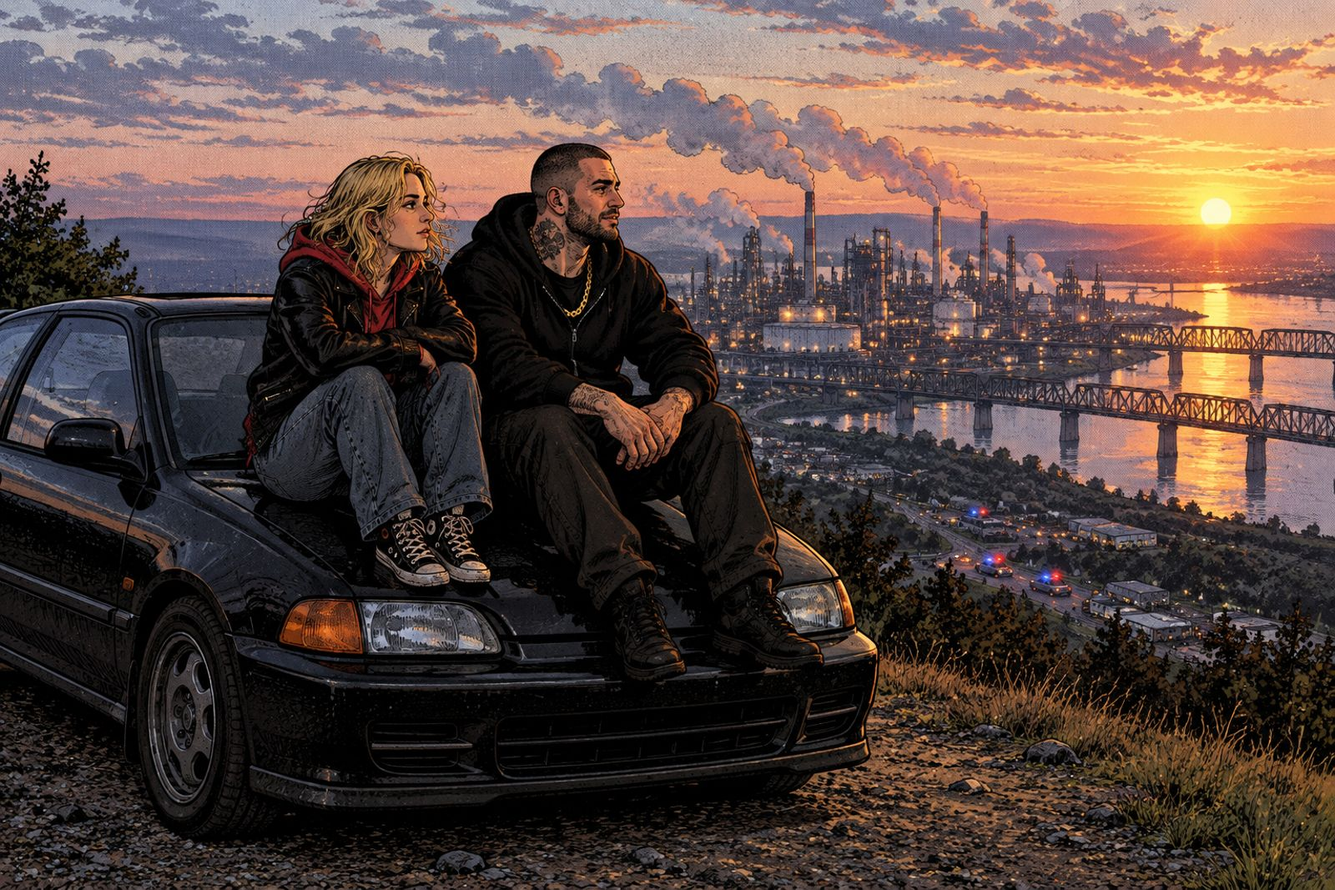
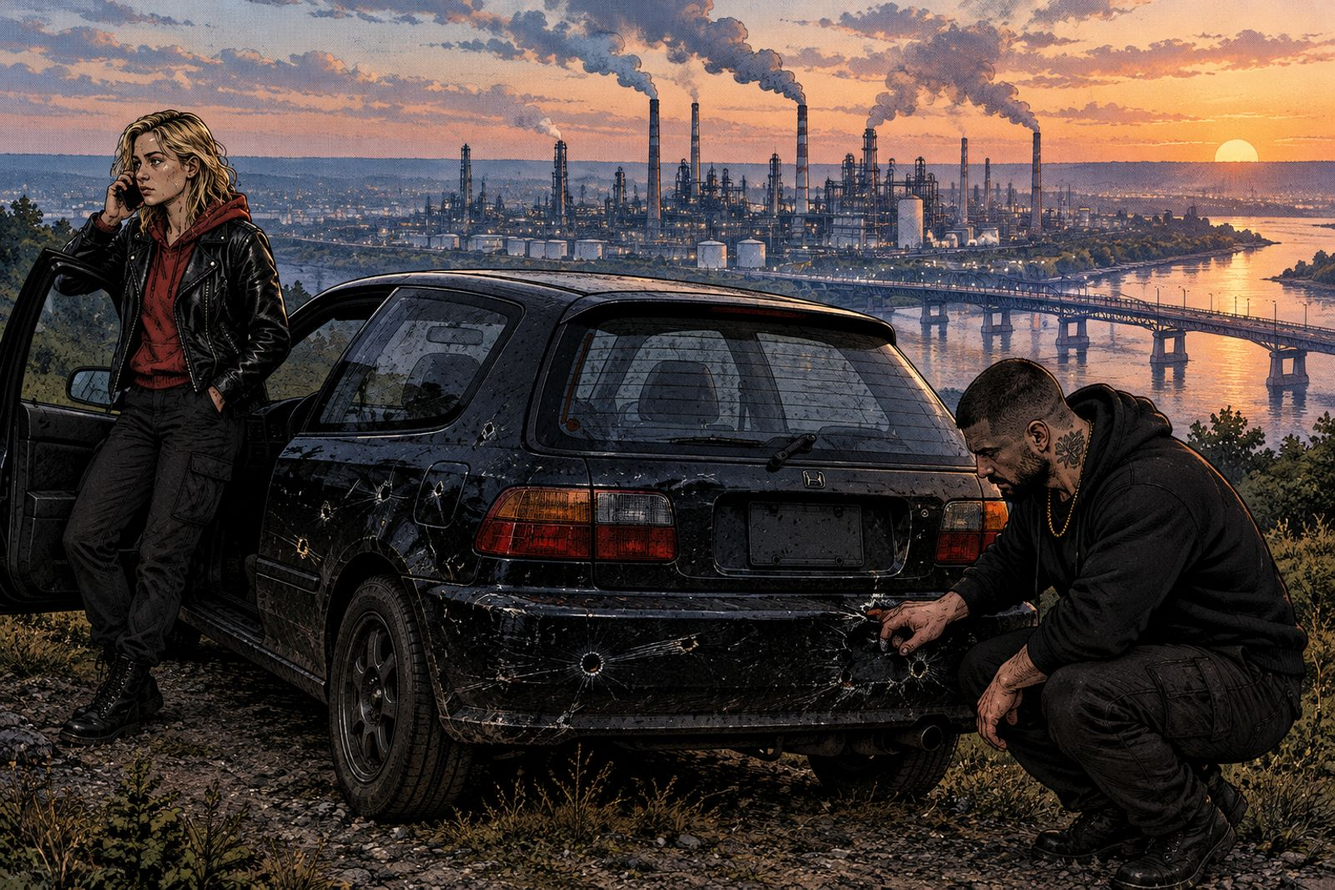
Story tone: less romance, no drug hints, no shooting at police. Chases mix police (bullet-proof, escape them) with many gang cars (shootable, double explosion + shake); 'Fízlové na Klíši' becomes 'Gang na Klíši'; courier delivers car parts; Chemička retrieves a stolen car; neutral pedestrian/police 
Claude-Session: https://claude.ai/code/session_01Tt18V6mhpxc2nVgtq6weTV

diff --git a/public/index.html b/public/index.html
@@ -521,19 +521,19 @@ const CIV_COLS=['#7a2222','#3a4a6a','#bdbdbd','#5a5a5a','#7a6a3a','#2f5f5a','#6a
 const RIVALS=[{n:'Kája',c:'#9dff00'},{n:'Pepa Turbo',c:'#ff2ec8'},{n:'Denis',c:'#ff7a00'},{n:'Žanetka',c:'#00e5ff'}];
 const HEROES={
  lucie:{name:'Lucie „Kočka“',role:'Řidička',desc:'Za volantem od patnácti. Bokem projede i Mariánskej most.',perk:'Lepší ovladatelnost +15 %, nitro se nabíjí o 40 % rychleji.'},
- marek:{name:'Marek „Šrot“',role:'Střelec',desc:'Ex-boxer z Předlic. Když vytáhne kalacha, policajti brzdí.',perk:'Poškození +60 %, rychlejší palba, pomalejší přehřátí.'}
+ marek:{name:'Marek „Šrot“',role:'Střelec',desc:'Ex-boxer z Předlic. Když vytáhne kalacha, gangy brzdí.',perk:'Poškození +60 %, rychlejší palba, pomalejší přehřátí.'}
 };
 function chaseSpec(B,p){const m=p&&p.st?p.st.max:0,a=p&&p.st?p.st.acc*(p.st.drv||1):0;return Object.assign({},B,{max:Math.max(B.max,m*.96),acc:Math.max(B.acc,a*1.08)})}
 const LEVELS=[
  {id:'utek',name:'Útěk po loupeži',sub:'Noc • liják • policie',type:'chase',route:[[4,25],[2,25],[2,22],[4,22],[4,23],[7,23],[7,21],[8,21],[8,19],[3,19],[3,17]],
-  blocks:[[2,.55],[5,.5],[7,.6],[8,.5]],reward:{resp:150,cash:50000},dark:.84,rain:true,from:'Mírové náměstí',to:'Úkryt v Neštěmicích',comic:'utek'},
+  pol:.5,blocks:[[2,.55],[5,.5],[7,.6],[8,.5]],reward:{resp:150,cash:50000},dark:.84,rain:true,from:'Mírové náměstí',to:'Úkryt v Neštěmicích',comic:'utek'},
  {id:'zavod',name:'Závod s místníma',sub:'Předlice → Střekov • 5 aut',type:'race',route:[[1,20],[3,20],[3,22],[1,22],[1,25],[4,25],[4,23],[9,23],[9,25],[7,25],[7,28]],
   reward:{resp:200,cash:25000},dark:.78,rain:false,from:'Předlice',to:'Střekov',comic:'zavod',req:'utek'},
- {id:'kuryr',name:'Kurýr do Předlic',sub:'Na čas • bez policie',type:'chase',cops:0,time:58,route:[[2,24],[2,27],[4,27],[4,29],[1,29]],reward:{resp:80,cash:30000},dark:.8,rain:true,comic:'kuryr'},
+ {id:'kuryr',name:'Kurýr do Předlic',sub:'Náhradní díly na čas',type:'chase',cops:0,time:58,route:[[2,24],[2,27],[4,27],[4,29],[1,29]],reward:{resp:80,cash:30000},dark:.8,rain:true,comic:'kuryr'},
  {id:'pepa',name:'Ožralej Pepa',sub:'Odvez ho domů, než se pobleje',type:'chase',cops:0,time:84,gentle:1,route:[[3,25],[4,25],[9,25],[9,21],[10,21],[10,18]],reward:{resp:80,cash:35000},dark:.82,rain:false,comic:'pepa'},
  {id:'cetky',name:'Zlatý řetězy',sub:'Rozstřílej 8 aut gangu za 110 s',type:'chase',cops:0,gang:8,kills:8,time:110,route:[[1,13],[4,13],[4,16],[1,16],[1,13]],reward:{resp:150,cash:60000},dark:.84,rain:true,comic:'cetky'},
- {id:'fizl',name:'Fízlové na Klíši',sub:'Sejmi 7 policejních aut',type:'chase',kills:7,time:140,route:[[1,18],[1,12],[3,12],[3,10],[0,10]],blocks:[[1,.5]],reward:{resp:150,cash:55000},dark:.84,rain:true,comic:'fizl'},
- {id:'chem',name:'Útěk z Chemičky',sub:'Přes most v Povrlech • policie',type:'chase',route:[[2,16],[2,14],[9,14],[9,11],[7,11]],blocks:[[1,.5],[2,.6]],reward:{resp:180,cash:70000},dark:.86,rain:true,comic:'chem'},
+ {id:'fizl',name:'Gang na Klíši',sub:'Sejmi 7 aut gangu',type:'chase',pol:0,kills:7,time:140,route:[[1,18],[1,12],[3,12],[3,10],[0,10]],reward:{resp:150,cash:55000},dark:.84,rain:true,comic:'fizl'},
+ {id:'chem',name:'Útěk z Chemičky',sub:'Přes most v Povrlech • gang v zádech',pol:.25,type:'chase',route:[[2,16],[2,14],[9,14],[9,11],[7,11]],blocks:[[1,.5],[2,.6]],reward:{resp:180,cash:70000},dark:.86,rain:true,comic:'chem'},
  {id:'mosty',name:'Závod přes mosty',sub:'Tři mosty • 5 aut',type:'race',route:[[4,14],[8,14],[8,19],[4,19],[4,23],[9,23],[9,26]],reward:{resp:200,cash:40000},dark:.78,rain:false,comic:'mosty'},
  {id:'l3',name:'Děčín',sub:'Zatím zavřeno',soon:true,at:[6,4]},
 ];
@@ -596,43 +596,43 @@ kaja:`<svg viewBox="0 0 200 250" xmlns="http://www.w3.org/2000/svg"><g stroke="#
 const COMICS={
  end_utek:{title:'Kapitola 2: Konec',end:1,panels:[{art:'end_utek',cap:'Úkryt v Neštěmicích. Zlato na kapotě, sirény se ztrácej v dešti. Dneska spíme jako králové.'}]},
  end_zavod:{title:'Kapitola 3: Konec',end:1,panels:[{art:'end_zavod',cap:'Most nad Labem, Střekov v zádech. Místní kluci koukaj s otevřenou pusou — nová jednička v Ústí.'}]},
- end_kuryr:{title:'Kurýr: Konec',end:1,panels:[{art:'end_kuryr',cap:'Balík předanej, obálka tlustá. Co v něm bylo? Radši se neptej.'}]},
+ end_kuryr:{title:'Kurýr: Konec',end:1,panels:[{art:'end_kuryr',cap:'Díly předaný, dílna jede dál. Mistr podává obálku: „Dobrá práce, příště zas.“'}]},
  end_pepa:{title:'Ožralej Pepa: Konec',end:1,panels:[{art:'end_pepa',cap:'Pepa doma, celej a spokojenej. Manželka s válečkem už čeká. Tohle už není tvůj problém.'}]},
- end_cetky:{title:'Zlatý řetězy: Konec',end:1,panels:[{art:'end_cetky',cap:'Gang je na šrot a jejich zlato visí na tvým krku. Herna nonstop dneska slaví jinou partu.'}]},
- end_fizl:{title:'Fízlové na Klíši: Konec',end:1,panels:[{art:'end_fizl',cap:'Hromada majáků na kopci a jen koncovky mizející dolů. Velitel si dneska čepici nezaslouží.'}]},
- end_chem:{title:'Chemička: Konec',end:1,panels:[{art:'end_chem',cap:'Svítá nad Chemičkou. Policajti hledaj dole v údolí. My jsme nahoře — a volní.'}]},
+ end_cetky:{title:'Zlatý řetězy: Konec',end:1,panels:[{art:'end_cetky',cap:'Gang je na šrot a jejich řetězy jsou v kufru. Ulice u herny je dneska klidná.'}]},
+ end_fizl:{title:'Gang na Klíši: Konec',end:1,panels:[{art:'end_fizl',cap:'Sedm kouřících vraků na kopci. Kájovi kluci dneska Klíši nedostanou.'}]},
+ end_chem:{title:'Chemička: Konec',end:1,panels:[{art:'end_chem',cap:'Svítá nad Chemičkou. Gang zůstal někde v údolí. Auto je zpátky a parťáci taky.'}]},
  end_mosty:{title:'Tři mosty: Konec',end:1,panels:[{art:'end_mosty',cap:'Prachy v ruce, uznání v očích soupeře. Tři mosty, jedna královna silnice.'}]},
  intro:{title:'Kapitola 1: Novej ve městě',panels:[
   {scene:'city',art:'keyart',cap:'Ústí nad Labem. Město andělů. Chemička nikdy nespí, Labe teče furt stejně líně… a ty jsi tu novej.'},
-  {scene:'river',art:'panel_river',who:['lucie','marek'],bubs:[{w:'lucie',t:'Tak tohle je ono, Marku. Novej život.',x:4,y:8},{w:'marek',t:'Novej život, nový cíle. Ale tady jsme nikdo.',x:36,y:34}]},
+  {scene:'river',art:'panel_river',who:['lucie','marek'],bubs:[{w:'lucie',t:'Tak tohle je Ústí, Marku. Začínáme od nuly.',x:4,y:8},{w:'marek',t:'Jo. Tady nás nikdo nezná. Zatím.',x:36,y:34}]},
   {scene:'fight',art:'street',who:[null,'kaja'],cap:'Fabriky, kopce, herny nonstop a ulice, kde se respekt nedědí.',bubs:[{w:'kaja',t:'Co čumíš, ty vole? Tohle je náš rajón, do píče!',x:8,y:40,shout:1}]},
   {scene:'fight',art:'street',cap:'Sídliště. Kluci se zase hádaj o nic.',bubs:[{w:'pepa',t:'Co na mě čumíš, ty šlapko?',x:4,y:30,shout:1},{w:'denis',t:'Vole, chceš do huby, nebo co?!',x:38,y:52},{w:'pepa',t:'Tak pojď, ty opice!',x:10,y:74,shout:1}]},
   {scene:'car',art:'panel_car',who:['lucie','marek'],bubs:[{w:'marek',t:'Potřebujem prachy na káru a jméno.',x:40,y:10},{w:'lucie',t:'Já řídím. Ty střílíš. Jako vždycky.',x:4,y:34}],cap2:'Odpracuj si respekt.'}]},
  utek:{title:'Kapitola 2: Zlatnictví',panels:[
   {scene:'plaza',art:'panel_plaza',cap:'02:47. Zlatnictví u Mírového náměstí. Leje jak z konve.'},
   {scene:'plaza2',art:'heist',who:['lucie','marek'],bubs:[{w:'marek',t:'Máme to! Jeď, jeď, JEĎ!',x:38,y:10,shout:1},{w:'lucie',t:'Drž se, ty debile, budou tu za minutu!',x:4,y:34}]},
-  {scene:'chase',art:'bridge',who:[null,'marek'],cap:'Sirény. Modrý světla. Celá Klíše je vzhůru.',bubs:[{w:'police',t:'Stůjte! Policie!',x:50,y:28,shout:1},{w:'marek',t:'Nasrat! Mám kalacha a dobrou náladu.',x:6,y:46}]},
-  {scene:'chase2',art:'panel_chase2',cap:'Dojeď do úkrytu v Neštěmicích a kšeft je tvůj. Policajty před sebou rozstřílej — tlačítko PAL.'}]},
+  {scene:'chase',art:'bridge',who:[null,'marek'],cap:'Sirény. Modrý světla. Celá Klíše je vzhůru.',bubs:[{w:'police',t:'Stůjte! Policie!',x:50,y:28,shout:1},{w:'marek',t:'Neboj, ujedeme jim. Jen se drž!',x:6,y:46}]},
+  {scene:'chase2',art:'panel_chase2',cap:'Dojeď do úkrytu v Neštěmicích. Policii ujeď — a za náma jede i Kájův gang. Jejich káry sejmi tlačítkem PAL.'}]},
  zavod:{title:'Kapitola 3: Předlice',panels:[
   {scene:'cutoff',art:'panel_cutoff',cap:'Předlice, sobota v noci. Na křižovatce tě někdo nahulí.'},
   {scene:'cutoff2',art:'panel_cutoff2',who:['lucie','kaja'],bubs:[{w:'kaja',t:'Ty vole, kdo tě učil řídit? Šlapko jedna!',x:40,y:10,shout:1},{w:'lucie',t:'Cos to řek, ty pičo?',x:4,y:36}]},
   {scene:'start',art:'racestart',who:['marek','kaja'],bubs:[{w:'kaja',t:'Chceš respekt? Závod. Pět kár, přes Mariánskej most na Střekov. Vítěz bere prachy.',x:36,y:8},{w:'marek',t:'Platí. Lucko, nakopni jim prdele.',x:4,y:40}]},
   {scene:'start2',art:'panel_start2',cap:'Platí jen první místo. Tlačítko NITRO = krátký zrychlení, nabíjí se samo.'}]},
  kuryr:{title:'Kurýr',panels:[
-  {art:'courier',bubs:[{w:'pepa',t:'Balík do Předlic. Za 58 vteřin, jinak tě sežerou.',x:44,y:8},{w:'lucie',t:'Co v tom je?',x:4,y:40}]},
-  {art:'courier',cap2:'Neptej se. JEĎ!'}]},
+  {art:'courier',bubs:[{w:'pepa',t:'Náhradní díly pro dílnu v Předlicích. Za 58 vteřin, jinak mistr zavře.',x:44,y:8},{w:'lucie',t:'Tak to stihneme.',x:4,y:40}]},
+  {art:'courier',cap2:'Mistr nečeká. JEĎ!'}]},
  pepa:{title:'Ožralej Pepa',panels:[
   {art:'drunk',bubs:[{w:'pepa',t:'Holka zlatá… vez mě domů… hik!',x:4,y:8,shout:1},{w:'lucie',t:'Jestli mi to tu pobleješ, vyhodím tě na mostě!',x:50,y:40}]},
   {art:'drunk',cap:'Jeď opatrně. Každej náraz = Pepovi je hůř.',cap2:'Krásný Březno, rychle!'}]},
  cetky:{title:'Zlatý řetězy',panels:[
   {art:'gang',bubs:[{w:'kaja',t:'Tohle je náš rajón, šlapko. Zlatý řetězy, černý káry.',x:40,y:6,shout:1},{w:'marek',t:'Pěkný řetízky. Budou se hodit do šrotu.',x:4,y:44}]},
   {art:'shootout',cap:'Šest černejch SUV. Dvě minuty.',cap2:'PAL!'}]},
- fizl:{title:'Fízlové na Klíši',panels:[
-  {art:'bridge',bubs:[{w:'police',t:'Tady hlídka. Ten černej hatchback zase jezdí.',x:40,y:8},{w:'marek',t:'Pět fízláků. Ani o jednoho víc.',x:4,y:44}]},
-  {art:'shootout',cap2:'Sejmi 5 aut policie!'}]},
+ fizl:{title:'Gang na Klíši',panels:[
+  {art:'gang',bubs:[{w:'kaja',t:'Klíše je teď naše. Kdo tu jezdí, platí.',x:40,y:8,shout:1},{w:'marek',t:'Sedm černejch kár. Ani o jednu víc.',x:4,y:44}]},
+  {art:'shootout',cap2:'Sejmi 7 aut gangu!'}]},
  chem:{title:'Chemička',panels:[
-  {art:'shootout',cap:'Noc u Spolchemie. Někdo zmáčkl alarm.',bubs:[{w:'marek',t:'Mám to v kufru. Teď jen přes most v Povrlech.',x:40,y:50}]},
-  {art:'bridge',cap2:'Ujeď policii!'}]},
+  {art:'shootout',cap:'Noc u Spolchemie. Kájův gang nám ukrad auto a schoval ho v areálu.',bubs:[{w:'marek',t:'Mám ho. Teď jen přes most v Povrlech — a za náma půlka gangu.',x:40,y:50}]},
+  {art:'gang',cap2:'Ujeď gangu!'}]},
  mosty:{title:'Tři mosty',panels:[
   {art:'racestart',bubs:[{w:'kaja',t:'Odveta. Tři mosty, žádný zkratky.',x:40,y:8,shout:1},{w:'lucie',t:'Zase prohraješ, šneku.',x:4,y:40}]},
   {art:'keyart',cap2:'Jen první místo!'}]},
@@ -805,7 +805,7 @@ function spawnCiv(w){for(let tries=0;tries<12;tries++){const ci=Math.round((w.ca
 
 /* ---- peds ---- */
 const DIALOG=[['Čau! Jak se máš?','Ale jo, ujde to.'],['Viděls ten zápas?','Jo, hrůza. Zase prohráli.'],['Půjčíš mi stovku?','Zapomeň, vole.'],['Ty jo, dlouho jsme se neviděli!','No jo, makám jak blázen.'],['Jdeš večer ven?','Jasně, do Pivnice.'],['Slyšels o tý honičce?','Jo, prej to byla černá kára.'],['Kde bydlíš teď?','Na Severní Terase.'],['Máš práci?','Jo, v Chemičce.'],['Co děláš o víkendu?','Spím. Celej víkend.'],['Hele, nemáš oheň?','Jasně, tumáš.']];
-const LINES={pub:['Na zdraví, vole!','Ještě jedno a jdem.','Kdo platí tuhle rundu?','Ty vole, já tě mám rád!','Hospoda je můj druhej domov.','Pivo za 29? To je dar!','Zavolej mi taxíka…','Půjč mi kilo do pátku!','Hele, ty nejsi odsud, co?'],car:['Ty šlapko!','Ty opice!','Kam čumíš, vole?!','Naučíš se řídit?!','Debile!','Do píče, moje auto!','Papíry máš z Lidlu?!','Ty kreténe!'],police:['Zastavte vozidlo!','Policie! Stůjte!','Okamžitě zastav!','Máme tě, kreténe!','Ruce na volant!'],rival:['Čau, šnečku!','Papa, loosere!','Tohle sou Předlice, vole!','Seš pomalej jak tramvaj!','Ty opice!'],drunk:['Já jsem v pohodě, fakt!','Kde je moje bunda?','Ještě jednu a domů… hik.','Miluju tohle město!','Hik…','Máš cigo?','Půjč mi kilo do pátku!','Ty vole, kde je hospoda?','Ještě jedno, pane vrchní!','Já nejsem ožralej!','Pivo je tekutej chleba!'],fight:['Ty šlapko!','Do píče!','Co čumíš?!','Dej mi ty prachy!','Chceš do huby?','Vole, nech toho!','Pojď sem, ty kreténe!'],girl:['Svezeš mě, zlato?','Ahoj fešáku…','Tady je zima jak sviňa.','Máš cígo?'],hit:['Ty opice!','Ty kreténe!','Pomalu, vole!','Debile!','Kurva!','Jezdi pořádně!','Do píče, málem!'],worker:['Ještě dvě hodiny a padla.','Mistr je kretén.','Zejtra zas ranní.','Výplata až v pátek…','Zase noční šichta…','Chemička smrdí jak vždycky.','Kde je ten autobus?'],bump:['Promiň!','Dávej bacha, vole!','Kam čumíš?','Pardon, pane.','Jejda, sorry!','Nešlapej mi na boty!','Ty máš oči na zádech?','Uhni, spěchám!'],
+const LINES={pub:['Na zdraví, vole!','Ještě jedno a jdem.','Kdo platí tuhle rundu?','Ty vole, já tě mám rád!','Hospoda je můj druhej domov.','Pivo za 29? To je dar!','Zavolej mi taxíka…','Půjč mi kilo do pátku!','Hele, ty nejsi odsud, co?'],car:['Ty šlapko!','Ty opice!','Kam čumíš, vole?!','Naučíš se řídit?!','Debile!','Do píče, moje auto!','Papíry máš z Lidlu?!','Ty kreténe!'],police:['Zastavte vozidlo!','Policie! Stůjte!','Okamžitě zastavte!','Vypněte motor!','Ruce na volant!'],gang:['Tohle je náš rajón!','Zastav, ty vole!','Dej sem tu káru!','Máme tě!','Za to zaplatíš!'],rival:['Čau, šnečku!','Papa, loosere!','Tohle sou Předlice, vole!','Seš pomalej jak tramvaj!','Ty opice!'],drunk:['Já jsem v pohodě, fakt!','Kde je moje bunda?','Ještě jednu a domů… hik.','Miluju tohle město!','Hik…','Máš cigo?','Půjč mi kilo do pátku!','Ty vole, kde je hospoda?','Ještě jedno, pane vrchní!','Já nejsem ožralej!','Pivo je tekutej chleba!'],fight:['Ty šlapko!','Do píče!','Co čumíš?!','Dej mi ty prachy!','Chceš do huby?','Vole, nech toho!','Pojď sem, ty kreténe!'],girl:['Nevíš, kdy jede tramvaj?','Hezký auto!','Tady je zima jak sviňa.','Máš cígo?'],hit:['Ty opice!','Ty kreténe!','Pomalu, vole!','Debile!','Kurva!','Jezdi pořádně!','Do píče, málem!'],worker:['Ještě dvě hodiny a padla.','Mistr je kretén.','Zejtra zas ranní.','Výplata až v pátek…','Zase noční šichta…','Chemička smrdí jak vždycky.','Kde je ten autobus?'],bump:['Promiň!','Dávej bacha, vole!','Kam čumíš?','Pardon, pane.','Jejda, sorry!','Nešlapej mi na boty!','Ty máš oči na zádech?','Uhni, spěchám!'],
  group:['A pak mu řekla, že je to jeho dítě!','Kdo jde na jedno?','Viděli jste včera Slavii?','Šéf mě zase sjel…','Tady se nic nezmění, vole.','Prej zdražujou tramvaj.','Já bych odsud vypadnul.','Hele, támhle jede ta černá kára!','Pátek, pátek, pátek!','Kdo má cígo?','Ty vole, to není možný!','Haha, to je dobrý!','Kam dneska večer?','Na Střekově je párty.','Kamarád prodává káru, levně.'],
  shot:['Střílí!!','Lehni!','Pomoc!','Utíkej!','Do píče, kulky!','Policie, pomoc!'],greet:['Čau!','Nazdar, jak se máš?','Ahoj, co děláš?','Taky prší, co?','Viděls ten zápas?','Ty jo, dlouho jsme se neviděli!'],near:['Pěkná kára!','Hezký auto, vole.','Svezeš mě kousek?','Ty máš ale bourák!','Neblokuj chodník!','Co tu stojíš?'],walker:['Kolik je hodin?','Zase jsem nestih autobus.','Prší jak sviňa.','Kde je tu bankomat?','Tohle město mě jednou zabije.','Ještě že je pátek.','Ten nájem je šílenej.','Mám hlad jak vlk.','Máš cigo?','Ty vole, prší.','Máš drobný?','Kam jdeš?','Půjč mi kilo do pátku.','Vrátím ti to, fakt!']};
 const PEDCOL=['#3a6ea5','#a53a3a','#4a8a4a','#8a6a3a','#555','#7a3a8a','#c8c8c8','#2a2a2a','#b8862b'];
@@ -906,18 +906,18 @@ function updateWorld(w,dt,pctl){
   w.t+=dt;
   for(const c of w.cars){const ctl=c===w.player?pctl:ai(w,c,dt);if(c.frozen){c.vx=c.vy=0;c.v=0;continue}
     if(!c.wreck)carPhysics(w,c,ctl,dt);else{c.vx*=1-2*dt;c.vy*=1-2*dt;c.x+=c.vx*dt;c.y+=c.vy*dt}
-    if(c.hp<=0&&!c.wreck&&c!==w.player){c.wreck=1;c.hp=0;explode(w,c.x,c.y);if((c.kind==='police'||c.gang)&&w.onKill)w.onKill(c)}
+    if(c.hp<=0&&!c.wreck&&c!==w.player){c.wreck=1;c.hp=0;explode(w,c.x,c.y);if(c.gang||(c.st&&c.st.gang)){setTimeout(()=>explode(w,c.x+rr(-12,12),c.y+rr(-12,12)),180);if(w.player&&Math.hypot(c.x-w.player.x,c.y-w.player.y)<500)shakeA=Math.max(shakeA,9)}if((c.kind==='police'||c.gang)&&w.onKill)w.onKill(c)}
     if(c.hp<c.maxhp*.4||c.wreck){c.smokeT-=dt;if(c.smokeT<0){c.smokeT=c.wreck?.08:.18;part(w,{x:c.x,y:c.y,vx:rr(-10,10),vy:rr(-10,10),life:rr(.8,1.6),max:1.6,type:c.wreck&&R()<.5?'fire':'smoke',size:rr(6,11),z:.02})}}
     if(c.wreck)c.wreck+=dt;
     if(c.say){c.sayL-=dt;if(c.sayL<=0)c.say=null}
-    if(w.player&&c!==w.player&&!c.say&&!c.wreck&&R()<dt*.25){const d=Math.hypot(c.x-w.player.x,c.y-w.player.y);if(d<260&&(c.kind==='police'&&!c.parked||c.kind==='rival')){c.say=pick(LINES[c.kind]);c.sayL=2}else if(c.kind==='civ'&&d<120){c.say=pick(LINES.car);c.sayL=1.8;Snd.honk()}}
+    if(w.player&&c!==w.player&&!c.say&&!c.wreck&&R()<dt*.25){const d=Math.hypot(c.x-w.player.x,c.y-w.player.y);if(d<260&&(c.kind==='police'&&!c.parked||c.kind==='rival')){c.say=pick(LINES[c.gang||(c.st&&c.st.gang)?'gang':c.kind]);c.sayL=2}else if(c.kind==='civ'&&d<120){c.say=pick(LINES.car);c.sayL=1.8;Snd.honk()}}
   }
   carCollide(w);
   // bullets
   for(let i=w.bullets.length-1;i>=0;i--){const b=w.bullets[i];b.life-=dt;b.px=b.x;b.py=b.y;b.x+=b.vx*dt;b.y+=b.vy*dt;let dead=b.life<=0;
-    if(isSolid(tileAt(Math.floor(b.x/T),Math.floor(b.y/T)))){const hx=isSolid(tileAt(Math.floor(b.x/T),Math.floor(b.py/T))),hy=isSolid(tileAt(Math.floor(b.px/T),Math.floor(b.y/T)));sparks(w,b.px,b.py,8,'#ffd27a');if(w.parts.length<400)for(let k=0;k<3;k++)part(w,{x:b.px,y:b.py,vx:rr(-30,30),vy:rr(-30,30),life:rr(.4,.8),max:.8,type:'smoke',size:rr(4,7),z:0,col:1});
+    if(isSolid(tileAt(Math.floor(b.x/T),Math.floor(b.y/T)))){if(R()<.35){for(let k=0;k<7;k++){const an=R()*6.28,sp=rr(30,110);part(w,{x:b.px,y:b.py,vx:Math.cos(an)*sp,vy:Math.sin(an)*sp,life:rr(.2,.45),max:.45,type:'fire',size:rr(3,6)})}w.flashL={x:b.px,y:b.py,t:.12};Snd.tone(160,40,.18,'sawtooth',.12)}const hx=isSolid(tileAt(Math.floor(b.x/T),Math.floor(b.py/T))),hy=isSolid(tileAt(Math.floor(b.px/T),Math.floor(b.y/T)));sparks(w,b.px,b.py,8,'#ffd27a');if(w.parts.length<400)for(let k=0;k<3;k++)part(w,{x:b.px,y:b.py,vx:rr(-30,30),vy:rr(-30,30),life:rr(.4,.8),max:.8,type:'smoke',size:rr(4,7),z:0,col:1});
       if(!b.rico&&R()<.3){b.rico=1;if(hx)b.vx=-b.vx*.6;if(hy||!hx)b.vy=-b.vy*.6;b.vx+=rr(-120,120);b.vy+=rr(-120,120);b.x=b.px;b.y=b.py;b.life=Math.min(b.life,.18);b.dmg*=.5;if(Math.random()<.5)Snd.tone(2400,900,.12,'square',.05)}else dead=true}
-    if(!dead)for(const c of w.cars){if(c===w.player||c.wreck)continue;if(Math.hypot(c.x-b.x,c.y-b.y)<c.L*.5){c.hp-=b.dmg;sparks(w,b.x,b.y,12,'#fff3b0');c.hitT=.12;w.flash=Math.max(w.flash||0,.08);dead=true;break}}
+    if(!dead)for(const c of w.cars){if(c===w.player||c.wreck)continue;if(Math.hypot(c.x-b.x,c.y-b.y)<c.L*.5){if(c.st&&c.st.police&&!c.st.gang){sparks(w,b.x,b.y,5,'#bcd4ff');dead=true;break}c.hp-=b.dmg;sparks(w,b.x,b.y,12,'#fff3b0');c.hitT=.12;w.flash=Math.max(w.flash||0,.08);dead=true;break}}
     if(dead)w.bullets.splice(i,1)}
   // peds
   if(w.peds.length<w.pedMax&&R()<.5)spawnPed(w,G.mode==='ambient'||G.mode==='promo'?300:620,G.mode==='ambient'||G.mode==='promo'?520:1000);
@@ -1188,7 +1188,7 @@ function promoShot(i){const w=promo.w,s=PROMO[i];cineCut();
       for(let k=0;k<12;k++)spawnPed(w,80,500)}
     if(s.game==='chase'){setRoute(w,[[0,21],[3,21],[3,23],[8,23],[8,25]]);const sp={col:'#141519',max:235,acc:240,turn:2.9,grip:6,hp:999,L:40,Wd:19};const g=makeCar(sp,IX(0)+60,IX(21)+18,0,'run');g.aiId='civka';g.path=routePath(w,18);g.v=200;g.vx=200;w.cars.push(g);
       for(let k=0;k<2;k++){const p=makeCar(Object.assign({},POLICE,{max:228,hp:999}),IX(0)-80-k*70,IX(21)+(k?-18:18),0,'run');p.path=routePath(w,k?-18:18);p.v=200;p.vx=200;w.cars.push(p)}
-      promo.follow=g;promo.cam='side';promo.gun=1;w.cam.x=g.x;w.cam.y=g.y;const PL=['Ty šlapko, pomalu!','Do píče, fízlové!','Jeď, jeď, JEĎ!','Málem mě zajel, kretén!','To je ta černá kára!','Ty vole, točím to!','Zase honěj někoho…','Policie, kurva!'];
+      promo.follow=g;promo.cam='side';promo.gun=1;w.cam.x=g.x;w.cam.y=g.y;const PL=['Ty šlapko, pomalu!','Ty jo, honička!','Jeď, jeď, JEĎ!','Málem mě zajel, kretén!','To je ta černá kára!','Ty vole, točím to!','Zase honěj někoho…','Policie jede!'];
       for(let k=0;k<8;k++){const q=makePed(k%3?'walker':'drunk',IX(0)+T*(2.5+k*3),IX(21)+(k%2?T*1.4:-T*1.4));q.sp=0;q.promoLine=PL[k%PL.length];w.peds.push(q)}}}
 }
 function updatePromo(dt){promo.t+=dt;const w=promo.w;let i=-1;for(let k=0;k<PROMO.length;k++)if(promo.t>=PROMO[k].t)i=k;
@@ -1299,7 +1299,7 @@ function comicScene(name){
   {const dy=(name==='plaza'||name==='plaza2'?21:19)*8*T;sc.y+=dy;for(const o of w.cars)o.y+=dy;for(const o of w.peds)o.y+=dy;for(const o of w.parts)o.y+=dy;for(const k of w.skids){k[1]+=dy;k[3]+=dy}}
   return{w,sc}}
 function renderPanel(){const el=$('scr-comic'),C=comic.C,P=C.panels[comic.i];
-  let h=`<div class="tag" style="margin-bottom:8px">${C.title}</div><div class="panel" id="panel">${P.art?`<div class="art" style="background-image:url(art/${P.art}.jpg?v=3)"></div>`:'<canvas id="pcv"></canvas>'}<div class="halftone"></div>`;
+  let h=`<div class="tag" style="margin-bottom:8px">${C.title}</div><div class="panel" id="panel">${P.art?`<div class="art" style="background-image:url(art/${P.art}.jpg?v=4)"></div>`:'<canvas id="pcv"></canvas>'}<div class="halftone"></div>`;
   if(P.who){if(P.who[0])h+=`<div class="inset l" style="background-image:url(art/${P.who[0]}.jpg)"></div>`;if(P.who[1])h+=`<div class="inset r" style="background-image:url(art/${P.who[1]}.jpg)"></div>`}
   if(P.cap)h+=`<div class="cap">${P.cap}</div>`;
   for(const b of P.bubs||[])h+=`<div class="bub ${b.shout?'shout':''}" style="left:${b.x}%;top:${b.y}%"><small>${WHO_NAME[b.w]}</small>${b.t}</div>`;
@@ -1331,7 +1331,7 @@ function startRoam(at,target){AN.ev('roam_start');hideAll();G.engineOff=false;$(
   Snd.setCar&&Snd.setCar(SAVE.car);Snd.startMusic(false);Snd.setStyle(SAVE.radio||'macht');Snd.rain(w.rain);drawMinimapBg();setTimeout(()=>{const a=$('area');if(G.mode==='roam'){a.textContent='📻 '+STY[Snd.style].name;a.classList.add('on');areaT=2.2}},2600)}
 let areaT=0;
 function freeGun(w,p,dt,fire){RS.gCD=(RS.gCD||0)-dt;if(RS.gOver){RS.gHeat-=dt*.45;if(RS.gHeat<=.25)RS.gOver=false}else RS.gHeat=Math.max(0,(RS.gHeat||0)-dt*.3);
-  if(fire&&!RS.gOver&&RS.gCD<=0){RS.gCD=.1;let a=p.a,best=null,bd=1e9;for(const c of w.cars){if(c===p||c.wreck||c.parked)continue;const dx=c.x-p.x,dy=c.y-p.y,d=Math.hypot(dx,dy);if(d>480)continue;const da=Math.abs(wrapA(Math.atan2(dy,dx)-p.a));if(da<.5&&d<bd){bd=d;best=c}}
+  if(fire&&!RS.gOver&&RS.gCD<=0){RS.gCD=.1;let a=p.a,best=null,bd=1e9;for(const c of w.cars){if(c===p||c.wreck||c.parked||(c.st&&c.st.police&&!c.st.gang))continue;const dx=c.x-p.x,dy=c.y-p.y,d=Math.hypot(dx,dy);if(d>480)continue;const da=Math.abs(wrapA(Math.atan2(dy,dx)-p.a));if(da<.5&&d<bd){bd=d;best=c}}
     if(best)a=Math.atan2(best.y-p.y,best.x-p.x);a+=rr(-.05,.05);const ca=Math.cos(p.a),sa=Math.sin(p.a);
     w.bullets.push({x:p.x+ca*p.L*.55-sa*6,y:p.y+sa*p.L*.55+ca*6,vx:Math.cos(a)*950+p.vx,vy:Math.sin(a)*950+p.vy,life:.5,dmg:12});w.muzzle=.05;Snd.shot();RS.gHeat+=.055;if(RS.gHeat>=1){RS.gHeat=1;RS.gOver=true;floatMsg('PŘEHŘÁTO!',.7)}}
   w.muzzle=Math.max(0,(w.muzzle||0)-dt)}
@@ -1377,7 +1377,7 @@ function beginRace(L){hideAll();const w=newWorld({rain:L.rain,dark:L.dark,civMax
     p.x=r0.x+ca*200-nx*20;p.y=r0.y+sa*200-ny*20;
   }else{
     if(L.gang){for(let k=0;k<L.gang;k++){const q=routeAt(w,w.total*(k+.6)/(L.gang+.5));const c=makeCar(chaseSpec(GANG,p),q.x,q.y,q.a+Math.PI*(k%2),'police');c.v=80;c.gang=1;c.seg=q.i;c.s=w.total*(k+.6)/(L.gang+.5);w.cars.push(c)}}
-    if(L.cops!==0)for(let k=0;k<2;k++){const c=makeCar(chaseSpec(POLICE,p),r0.x-ca*(260+k*80)+nx*(k?-18:18),r0.y-sa*(260+k*80)+ny*(k?-18:18),a,'police');c.v=120;w.cars.push(c)}
+    if(L.cops!==0)for(let k=0;k<2;k++){const isPol=k<Math.round(2*(L.pol??.35));const c=makeCar(chaseSpec(isPol?POLICE:GANG,p),r0.x-ca*(260+k*80)+nx*(k?-18:18),r0.y-sa*(260+k*80)+ny*(k?-18:18),a,'police');if(!isPol)c.gang=1;c.v=120;w.cars.push(c)}
     for(const b of(L.blocks||[])){const s=w.cum[b[0]]+(w.cum[b[0]+1]-w.cum[b[0]])*b[1];const q=routeAt(w,s);for(const side of[-1,1]){const c=makeCar(chaseSpec(POLICE,p),q.x-Math.sin(q.a)*side*24,q.y+Math.cos(q.a)*side*24,q.a+Math.PI/2+side*.4,'police');c.parked=true;c.seg=q.i;c.s=s;w.cars.push(c)}}
     w.onKill=c=>{RS.kills++;floatMsg(L.kills?`${Math.min(RS.kills,L.kills)} / ${L.kills}`:'+2 000 Kč')};
   }
@@ -1521,7 +1521,7 @@ function updateRace(dt){const w=G.world,p=w.player,L=RS.L;RS.t+=dt;
   // action
   const act=G.keys.a&&!RS.end&&RS.count<=0;
   if(L.type==='chase'){RS.fireCD-=dt;if(RS.over){RS.heat-=dt*.45;if(RS.heat<=.25)RS.over=false}else RS.heat=Math.max(0,RS.heat-dt*.32);
-    if(act&&!RS.over&&RS.fireCD<=0){RS.fireCD=RS.fireRate;let a=p.a;let best=null,bd=1e9;for(const c of w.cars){if((c.kind!=='police'&&!(L.kills&&c.kind==='civ'&&false))||c.wreck)continue;const dx=c.x-p.x,dy=c.y-p.y,d=Math.hypot(dx,dy);if(d>480)continue;const da=Math.abs(wrapA(Math.atan2(dy,dx)-p.a));if(da<.5&&d<bd){bd=d;best=c}}
+    if(act&&!RS.over&&RS.fireCD<=0){RS.fireCD=RS.fireRate;let a=p.a;let best=null,bd=1e9;for(const c of w.cars){if(c.kind!=='police'||c.wreck||(c.st&&c.st.police&&!c.st.gang))continue;const dx=c.x-p.x,dy=c.y-p.y,d=Math.hypot(dx,dy);if(d>480)continue;const da=Math.abs(wrapA(Math.atan2(dy,dx)-p.a));if(da<.5&&d<bd){bd=d;best=c}}
       if(best)a=Math.atan2(best.y-p.y,best.x-p.x);a+=rr(-.05,.05);const ca=Math.cos(p.a),sa=Math.sin(p.a);
       w.bullets.push({x:p.x+ca*p.L*.55-sa*6,y:p.y+sa*p.L*.55+ca*6,vx:Math.cos(a)*950+p.vx,vy:Math.sin(a)*950+p.vy,life:.5,dmg:10*RS.dmgMul});w.muzzle=.05;Snd.shot();RS.heat+=RS.heatPer;if(RS.heat>=1){RS.heat=1;RS.over=true;floatMsg('PŘEHŘÁTO!',.7)}}
     w.muzzle=Math.max(0,(w.muzzle||0)-dt);
@@ -1537,7 +1537,7 @@ function updateRace(dt){const w=G.world,p=w.player,L=RS.L;RS.t+=dt;
   // police mgmt & siren
   let nearP=1e9;
   if(L.type==='chase'){let active=0;for(const c of w.cars)if(c.kind==='police'&&!c.wreck&&!c.gang){nearP=Math.min(nearP,Math.hypot(c.x-p.x,c.y-p.y));if(!c.parked)active++}
-    RS.spawnT-=dt;if(L.cops!==0&&RS.spawnT<0&&active<(L.kills&&!L.gang?5:4+Math.floor(p.s/w.total*3))&&(p.s>700||L.kills)&&!RS.end){RS.spawnT=rr(4.5,7.5);const q=routeAt(w,p.s-650);const c=makeCar(chaseSpec(POLICE,p),q.x,q.y,q.a,'police');c.v=200;c.vx=Math.cos(q.a)*200;c.vy=Math.sin(q.a)*200;c.seg=Math.max(0,q.i);w.cars.push(c)}
+    RS.spawnT-=dt;if(L.cops!==0&&RS.spawnT<0&&active<(L.kills&&!L.gang?5:4+Math.floor(p.s/w.total*3))&&(p.s>700||L.kills)&&!RS.end){RS.spawnT=rr(4.5,7.5);const q=routeAt(w,p.s-650);const isPol=R()<(L.pol??.35);const c=makeCar(chaseSpec(isPol?POLICE:GANG,p),q.x,q.y,q.a,'police');if(!isPol)c.gang=1;c.v=200;c.vx=Math.cos(q.a)*200;c.vy=Math.sin(q.a)*200;c.seg=Math.max(0,q.i);w.cars.push(c)}
     // bust
     let close=false;for(const c of w.cars)if(c.kind==='police'&&!c.wreck&&!c.parked&&Math.hypot(c.x-p.x,c.y-p.y)<62)close=true;
     if(close&&sp<35&&!RS.end)RS.bust+=dt;else RS.bust=Math.max(0,RS.bust-dt*1.5);
@@ -1554,7 +1554,7 @@ function updateRace(dt){const w=G.world,p=w.player,L=RS.L;RS.t+=dt;
   if(L.type==='race')for(const c of w.cars){if(c.kind!=='rival')continue;const gap=c.s-p.s;c.speedMul=gap>900?.97:gap<-350?1.12:1.02;if(!c.finished&&(c.atFinish||c.seg>=w.route.length-2&&c.segT>=.97)){c.finished=RS.t;RS.finishOrder.push(c.name)}if(c.finished){c.path=null}}
   // end checks
   if(!RS.end&&RS.count<=0&&L.time&&RS.t>L.time){endRace(false,'ČAS VYPRŠEL',L.kills?'Nestihl jsi to. Gang se ti směje.':'Pozdě. Kšeft je fuč.')}
-  if(!RS.end&&L.kills&&RS.kills>=L.kills){endRace(true,'HOTOVO!',L.gang?'Zlatý řetězy jsou tvoje. Gang je na šrotu.':'Pět fízláků na šrotu. Klíše tě má za krále.')}
+  if(!RS.end&&L.kills&&RS.kills>=L.kills){endRace(true,'HOTOVO!',L.gang?'Zlatý řetězy jsou tvoje. Gang je na šrotu.':'Sedm aut gangu na šrotu. Klíše je zase klidná.')}
   if(!RS.end&&L.gentle&&p.hp<p.maxhp*.55){endRace(false,'POBLIL SE!','Pepa ti to pozvracel celý. Smrdí to až do Děčína.')}
   if(!RS.end){if(p.hp<=0){p.hp=0;explode(w,p.x,p.y);endRace(false,'AUTO NA ŠROT','Tvoje kára to nedala. Zkus to znova.')}
     else if(!L.kills&&(p.atFinish||(p.seg>=w.route.length-2&&p.segT>=.97))){p.finished=RS.t;
@@ -1570,7 +1570,7 @@ function endRace(win,title,text){AN.ev('mission_end',{mission:RS.L.id,result:win
   SAVE.resp+=RS.gain.resp;SAVE.cash+=RS.gain.cash;save()}
 function showResult(){DJ.stop();G.mode='result';if(RS.win&&SAVE.replay===RS.L.id){SAVE.replay=null;save()}{const r=G.world.route,e=r[r.length-1],q=r[r.length-2];const a=Math.atan2(e.y-q.y,e.x-q.x);G.lastPos={x:e.x-Math.sin(a)*18+Math.cos(a)*60,y:e.y+Math.cos(a)*18+Math.sin(a)*60,a}}Snd.engine(0,false);Snd.siren(0,0);const el=$('scr-result'),L=RS.L;
   el.innerHTML=`<div class="res"><div class="tag">${L.name}</div><h2 style="color:${RS.win?'var(--acc)':'var(--acc2)'}">${RS.title}</h2><p>${RS.text}</p>
-  <div class="lines"><div><span>Čas</span><b>${RS.t.toFixed(1)} s</b></div>${L.type==='chase'?`<div><span>Zničení policajti</span><b>${RS.kills}</b></div>`:`<div><span>Umístění</span><b>${RS.win?1:RS.finishOrder.length+1}. / 5</b></div>`}
+  <div class="lines"><div><span>Čas</span><b>${RS.t.toFixed(1)} s</b></div>${L.type==='chase'?`<div><span>Zničená auta gangu</span><b>${RS.kills}</b></div>`:`<div><span>Umístění</span><b>${RS.win?1:RS.finishOrder.length+1}. / 5</b></div>`}
   <div><span>Výdělek</span><b>+${RS.gain.cash.toLocaleString('cs-CZ')} Kč</b></div><div><span>Celkem v kapse</span><b>${SAVE.cash.toLocaleString('cs-CZ')} Kč</b></div></div>
   <div class="row">${RS.win?'':`<button class="btn" data-lvlgo="${L.id}">ZKUSIT ZNOVU</button>`}<button class="btn pink" data-go="city">DO MĚSTA</button><button class="btn dark" data-go="garage">GARÁŽ</button></div>
   ${RS.win&&L.id==='zavod'?'<p class="note">Další mapa se odemkne v příští verzi.</p>':''}</div>`;
@@ -1750,7 +1750,7 @@ import {KTX2Loader} from './vendor/jsm/loaders/KTX2Loader.js';
 import {MeshoptDecoder} from './vendor/jsm/libs/meshopt_decoder.module.js';
 import * as SkeletonUtils from './vendor/jsm/utils/SkeletonUtils.js';
 window.THREE=THREE;window.TADD={EffectComposer,RenderPass,UnrealBloomPass,OutputPass,GLTFLoader,RGBELoader,SkeletonUtils,DRACOLoader,KTX2Loader,MeshoptDecoder};
-const s=document.createElement('script');s.src='r3.js?v=66';document.body.appendChild(s);
+const s=document.createElement('script');s.src='r3.js?v=67';document.body.appendChild(s);
 </script>
 </body>
 </html>
